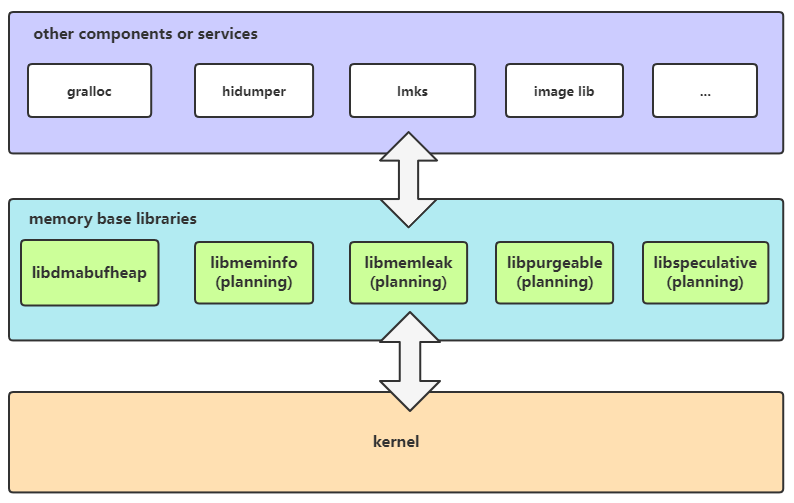
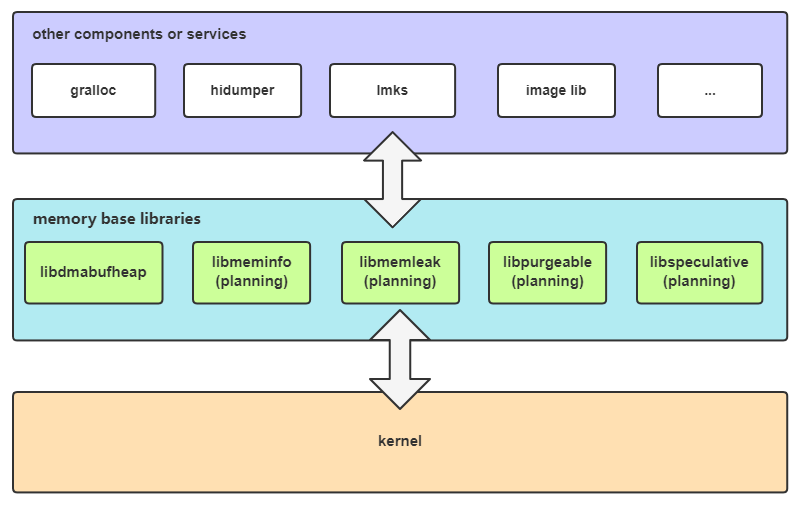
fix README due to the review
issue: #I4UYFJ

Changed region(s): [[0.0, 0.0298, 0.9975, 0.9841], [0.2418, 0.4771, 0.3929, 0.6262], [0.4534, 0.8648, 0.5441, 0.8946]]

diff --git a/README_zh.md b/README_zh.md
@@ -5,10 +5,10 @@
 -   [Directory Structure](#section_catalogue)
 -   [Memory Base Libraries](#section_libraries)
     -   [libdmabufheap system library](#section_libdmabufheap)
-    -   [libmeminfo system library (in planning)](#section_libmeminfo)
-    -   [libmemleak system library (in planning)](#section_libmemleak)
-    -   [libpurgeable system library (in planning)](#section_libpurgeable)
-    -   [libspeculative system library (in planning)](#section_libspeculative)
+    -   [libmeminfo system library (planning)](#section_libmeminfo)
+    -   [libmemleak system library (planning)](#section_libmemleak)
+    -   [libpurgeable system library (planning)](#section_libpurgeable)
+    -   [libspeculative system library (planning)](#section_libspeculative)
 -   [Usage Guidelines](#section_usage)
 -   [Repositories Involved](#section_projects)
 
@@ -18,9 +18,9 @@ The part of *Memory base libraries* belongs to the subsystem named *Utils Subsys
 
 ## Architecture<a name="section_architecture"></a>
 
-![](figures/en-us_image_fwk.png)
-
 **Figure  1** Memory Base Libraries architecture
+
+![](figures/en-us_image_fwk.png)
 
 ## Directory Structure<a name="section_catalogue"></a>
 
@@ -44,19 +44,19 @@ The part of *Memory base libraries* belongs to the subsystem named *Utils Subsys
 
 The memory system library provides interfaces for services to allocate and share shared memory. By allocating and sharing memory between hardware devices and user space, zero-copy memory between devices and processes is implemented to improve execution efficiency.
 
-### libmeminfo system library (in planning)<a name="section_libmeminfo"></a>
+### libmeminfo system library (planning)<a name="section_libmeminfo"></a>
 
 It provides interfaces for memory usage queries. It is mainly used by memory footprint management service(hidumper) and low-memory killing service(lmks).
 
-### libmemleak system library (in planning)<a name="section_libmemleak"></a>
+### libmemleak system library (planning)<a name="section_libmemleak"></a>
 
 It cooperates with malloc_debug to detect memory leaks of native heap.
 
-### libpurgeable system library (in planning)<a name="section_libpurgeable"></a>
+### libpurgeable system library (planning)<a name="section_libpurgeable"></a>
 
 It provides management interfaces for discardable-type memory. It is mainly used by graphics and image codec libraries.
 
-### libspeculative system library (in planning)<a name="section_libspeculative"></a>
+### libspeculative system library (planning)<a name="section_libspeculative"></a>
 
 It provides management interfaces for speculative-type memory. It is mainly used by system services for data pre-loading.
 

diff --git a/README.md b/README.md
@@ -5,10 +5,10 @@
 -   [目录](#section_catalogue)
 -   [内存基础库](#section_libraries)
     -   [libdmabufheap系统库](#section_libdmabufheap)
-    -   [libmeminfo系统库（规划）](#section_libmeminfo)
-    -   [libmemleak系统库（规划）](#section_libmemleak)
-    -   [libpurgeable系统库（规划）](#section_libpurgeable)
-    -   [libspeculative系统库（规划）](#section_libspeculative)
+    -   [libmeminfo系统库（规划中）](#section_libmeminfo)
+    -   [libmemleak系统库（规划中）](#section_libmemleak)
+    -   [libpurgeable系统库（规划中）](#section_libpurgeable)
+    -   [libspeculative系统库（规划中）](#section_libspeculative)
 -   [使用说明](#section_usage)
 -   [相关仓](#section_projects)
 
@@ -18,9 +18,9 @@
 
 ## 部件架构图<a name="section_architecture"></a>
 
-![](figures/zh-cn_image_fwk.png)
-
 **图1** 内存基础库部件架构图
+
+![](figures/zh-cn_image_fwk.png)
 
 ## 目录<a name="section_catalogue"></a>
 
@@ -45,19 +45,19 @@
 为业务提供分配共享内存的接口，通过在硬件设备和用户空间之间分配和共享内存，实现
 设备、进程间零拷贝内存，提升执行效率。
 
-### libmeminfo系统库（规划）<a name="section_libmeminfo"></a>
+### libmeminfo系统库（规划中）<a name="section_libmeminfo"></a>
 
 提供内存占用查询接口。主要提供给内存占用维测（hidumper）、低内存查杀服务（lmks）使用。
 
-### libmemleak系统库（规划）<a name="section_libmemleak"></a>
+### libmemleak系统库（规划中）<a name="section_libmemleak"></a>
 
 配合malloc_debug做native heap内存泄漏检测。
 
-### libpurgeable系统库（规划）<a name="section_libpurgeable"></a>
+### libpurgeable系统库（规划中）<a name="section_libpurgeable"></a>
 
 提供可丢弃类型内存的管理接口。主要提供给多媒体业务图形图像编解码库使用。
 
-### libspeculative系统库（规划）<a name="section_libspeculative"></a>
+### libspeculative系统库（规划中）<a name="section_libspeculative"></a>
 
 提供投机类型内存管理接口。主要提供给系统服务使用，用于缓存预读。
 
